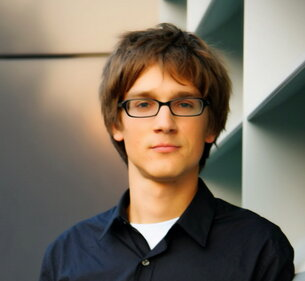
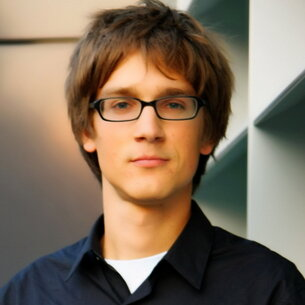
Normalize size of pictures
they were misaligned before

diff --git a/docs/team.html b/docs/team.html
@@ -699,7 +699,7 @@
             <div class="my-2">
               <a
                 target="_blank"
-                href="https://www.linkedin.com/in/sabrina-shen-83bba5172/"
+                href="https://www.linkedin.com/in/allen-chin-b870331/"
               >
                 <img
                   src="img/logos/linkedin-dark.svg"
